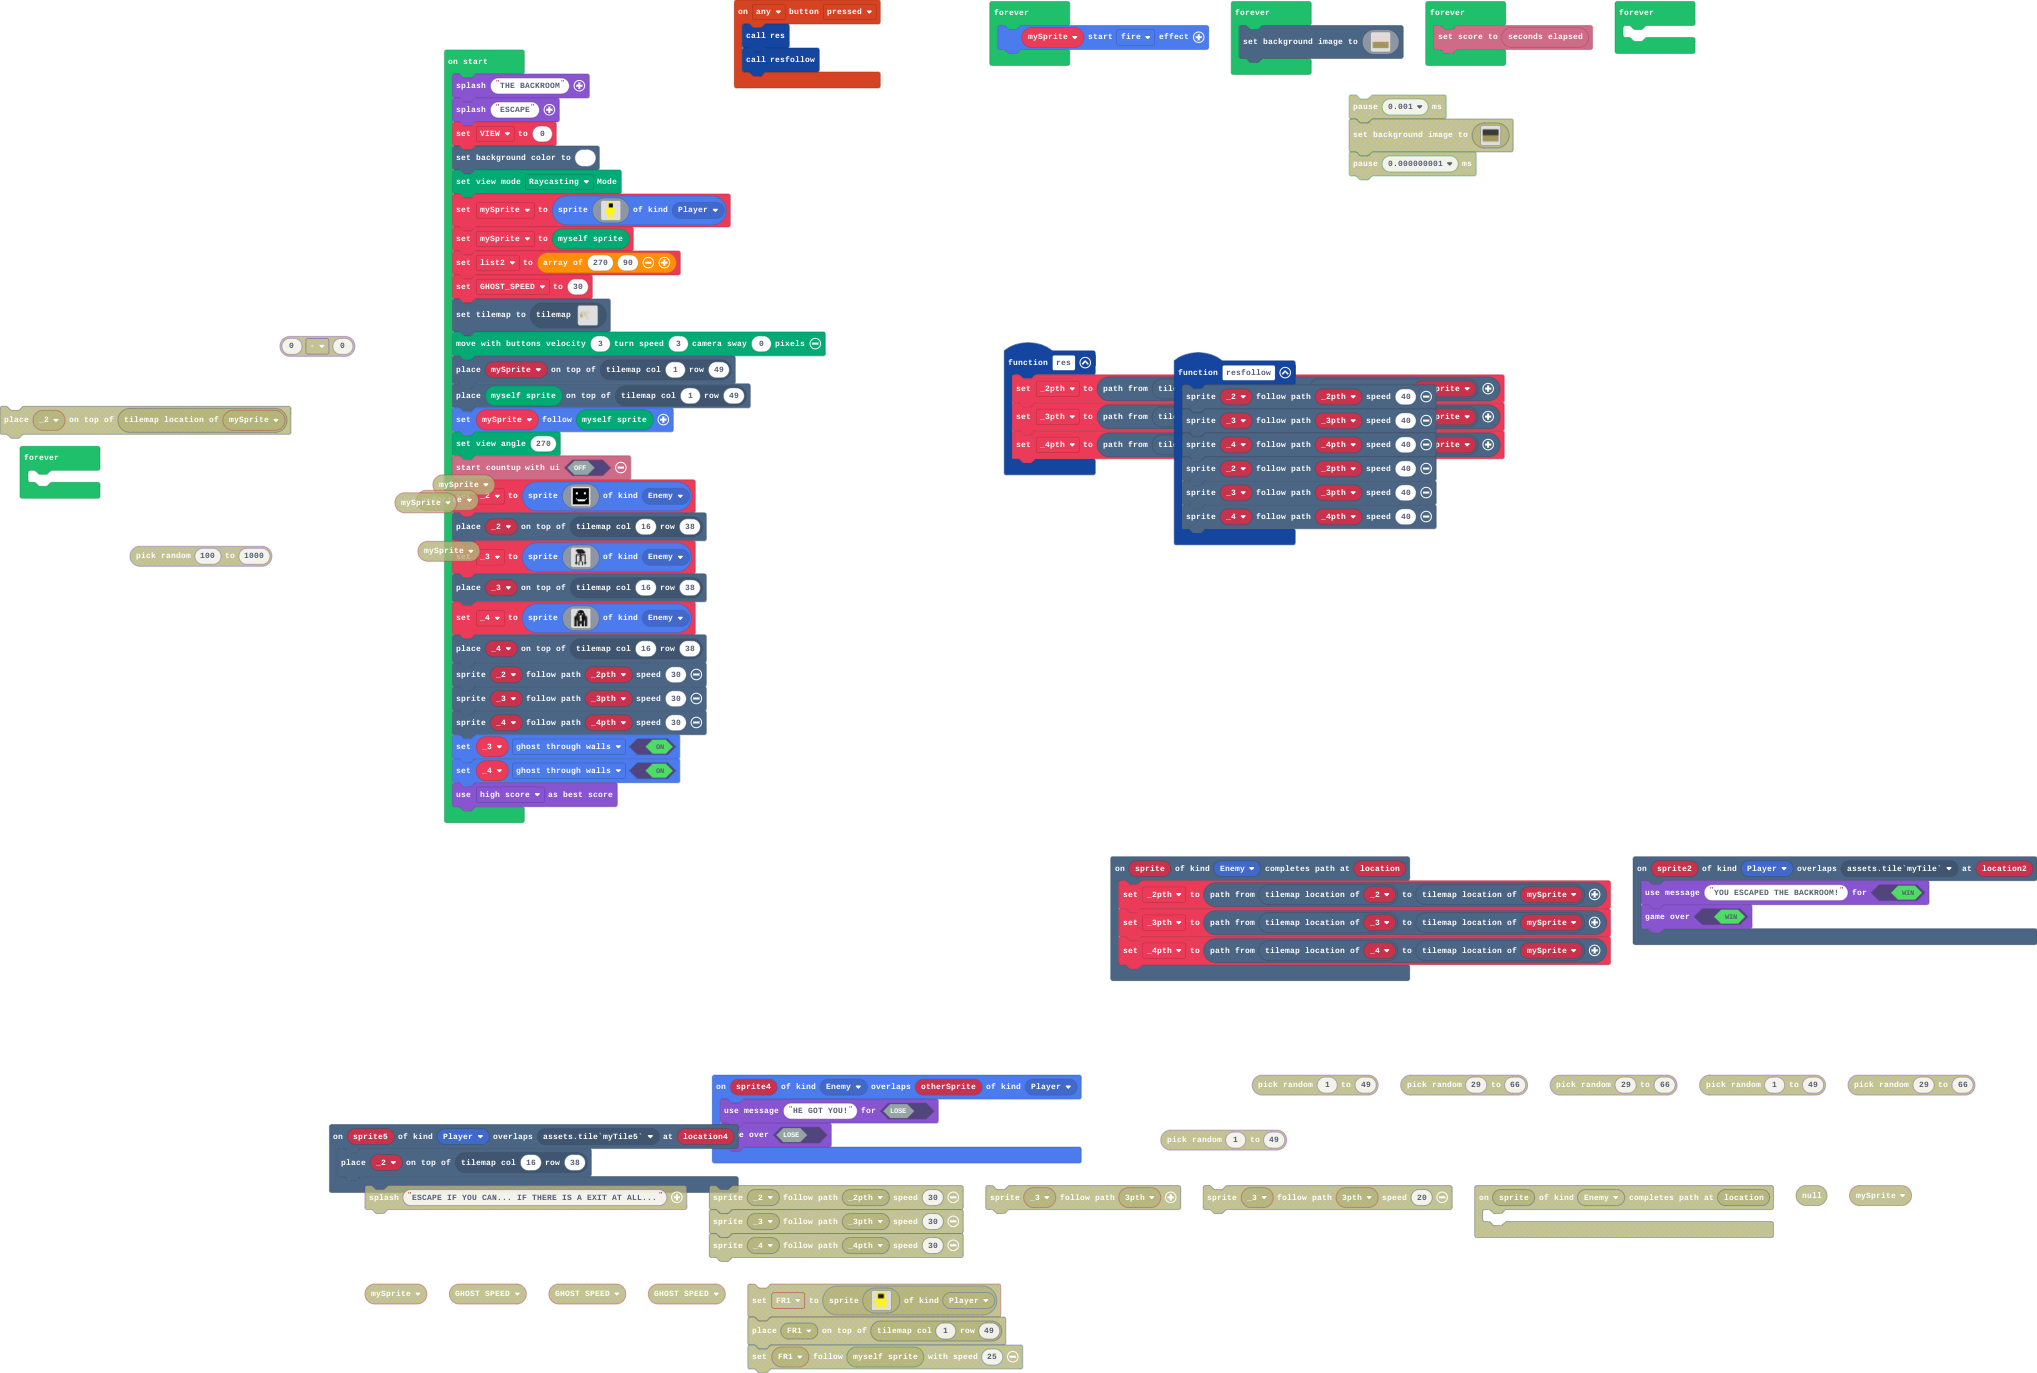
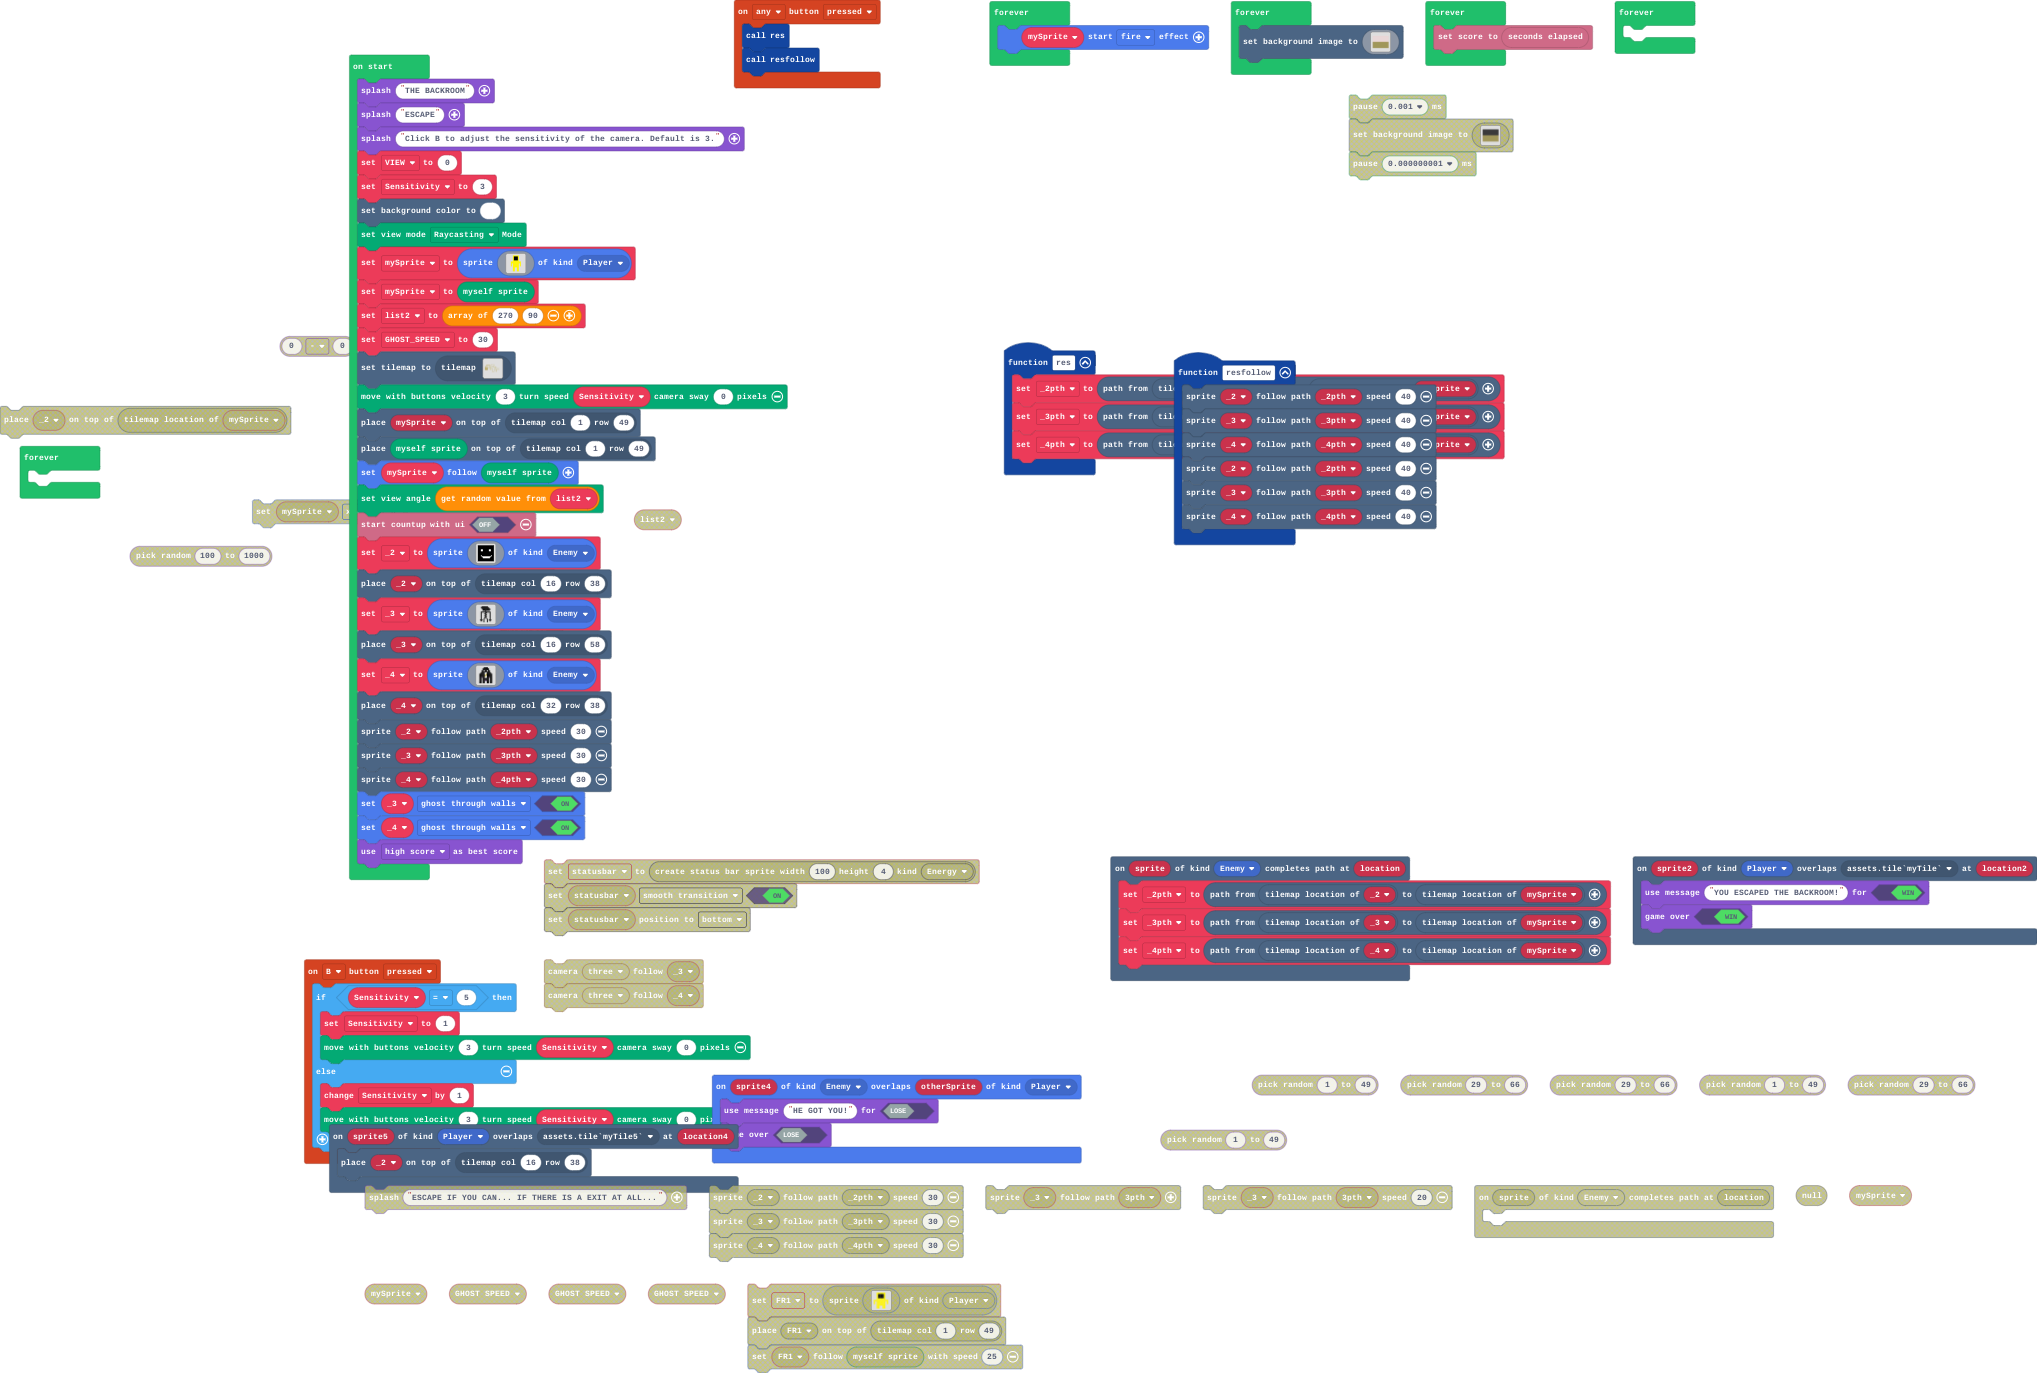
yy

Changed region(s): [[0.1237, 0.0306, 0.4948, 0.8565]]

diff --git a/main.ts b/main.ts
@@ -14,6 +14,15 @@ function resfollow () {
     scene.followPath(_3, _3pth, 40)
     scene.followPath(_4, _4pth, 40)
 }
+controller.B.onEvent(ControllerButtonEvent.Pressed, function () {
+    if (Sensitivity == 5) {
+        Sensitivity = 1
+        Render.moveWithController(3, Sensitivity, 0)
+    } else {
+        Sensitivity += 1
+        Render.moveWithController(3, Sensitivity, 0)
+    }
+})
 controller.anyButton.onEvent(ControllerButtonEvent.Pressed, function () {
     res()
     resfollow()
@@ -41,9 +50,12 @@ let _4: Sprite = null
 let _3: Sprite = null
 let _2: Sprite = null
 let mySprite: Sprite = null
+let Sensitivity = 0
 game.splash("THE BACKROOM")
 game.splash("ESCAPE")
+game.splash("Click B to adjust the sensitivity of the camera. Default is 3.")
 let VIEW = 0
+Sensitivity = 3
 scene.setBackgroundColor(1)
 Render.setViewMode(ViewMode.raycastingView)
 mySprite = sprites.create(img`
@@ -68,11 +80,11 @@ mySprite = Render.getRenderSpriteVariable()
 let list2 = [270, 90]
 let GHOST_SPEED = 30
 tiles.setCurrentTilemap(tilemap`level2`)
-Render.moveWithController(3, 3, 0)
+Render.moveWithController(3, Sensitivity, 0)
 tiles.placeOnTile(mySprite, tiles.getTileLocation(1, 49))
 tiles.placeOnTile(Render.getRenderSpriteInstance(), tiles.getTileLocation(1, 49))
 mySprite.follow(Render.getRenderSpriteInstance())
-Render.setViewAngleInDegree(270)
+Render.setViewAngleInDegree(list2._pickRandom())
 info.startCountup(false)
 _2 = sprites.create(img`
     f f f f f f f f f f f f f f f f 
@@ -113,7 +125,7 @@ _3 = sprites.create(img`
     . f . . f . . . f . . f . 
     . . . . f . . . f . . . . 
     `, SpriteKind.Enemy)
-tiles.placeOnTile(_3, tiles.getTileLocation(16, 38))
+tiles.placeOnTile(_3, tiles.getTileLocation(16, 58))
 _4 = sprites.create(img`
     . . . . f f f f . . . . 
     . . . f f f f f f . . . 
@@ -131,7 +143,7 @@ _4 = sprites.create(img`
     f f . f f . . f f . f f 
     f f . f f . . f f . f f 
     `, SpriteKind.Enemy)
-tiles.placeOnTile(_4, tiles.getTileLocation(16, 38))
+tiles.placeOnTile(_4, tiles.getTileLocation(32, 38))
 scene.followPath(_2, _2pth, 30)
 scene.followPath(_3, _3pth, 30)
 scene.followPath(_4, _4pth, 30)
